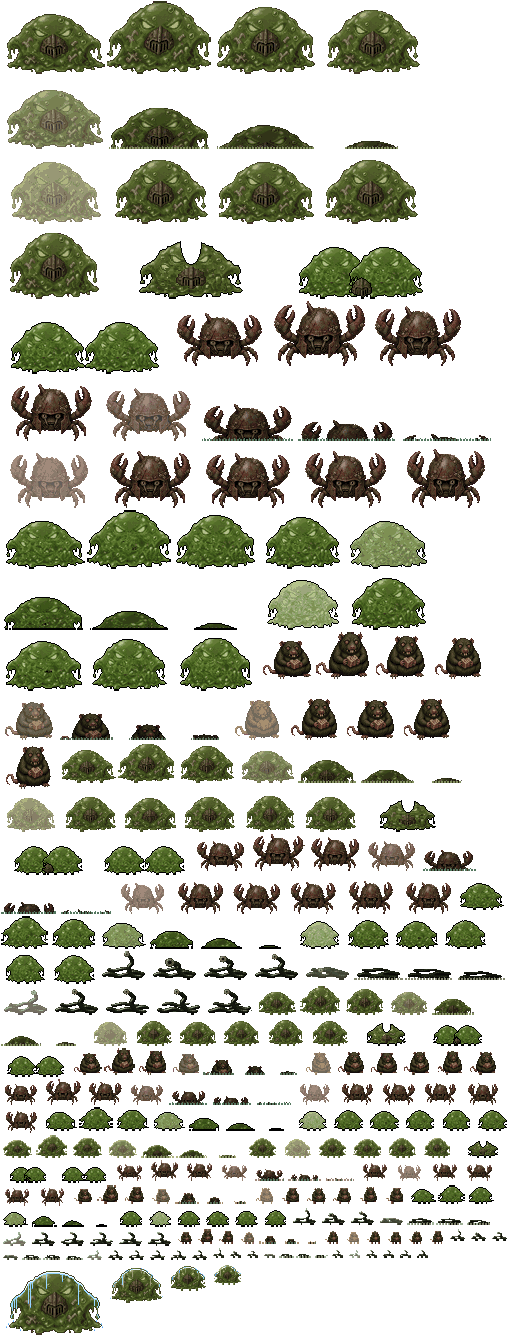
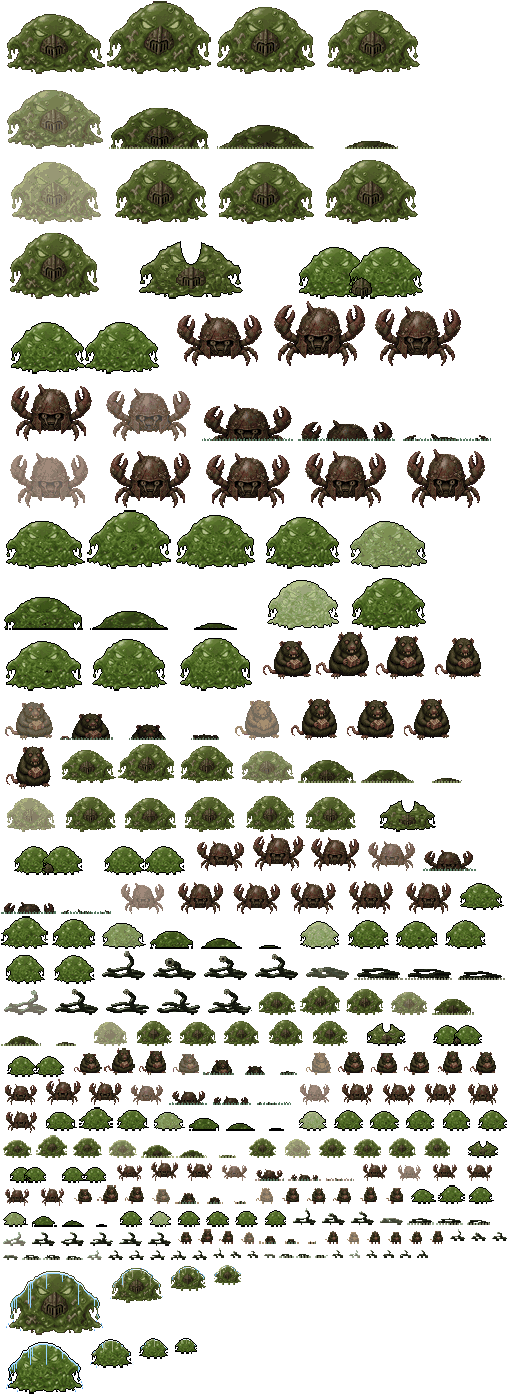
Stamp slime_small frost frames from 5c32e83 without re-packing.
Append slime_small_idle_1_{close,near,mid,far}_frost to a new monsters
sheet row and copy 5c32e83 anchors. Big-slime frost pixels stay put;
every other existing frame is unchanged.

diff --git a/tests/slime-frost.test.ts b/tests/slime-frost.test.ts
@@ -68,7 +68,13 @@ describe('slime frost data and bark flag', () => {
     expect(sprites).not.toMatch(/scale.*_frost|frost.*scaled/);
     expect(sprites).not.toMatch(/slimeFrostTex\.get\('slime:/);
     const atlas = readFileSync(resolve(__dirname, '../public/art/atlas/monsters.json'), 'utf8');
-    expect(atlas).not.toMatch(/slime_small\S*_frost/);
+    for (const lod of ['close', 'near', 'mid', 'far']) {
+      expect(atlas).toContain(`slime_small_idle_1_${lod}_frost.png`);
+      expect(atlas).toContain(`slime_idle_1_${lod}_frost.png`);
+    }
+    const anchors = readFileSync(resolve(__dirname, '../public/art/dungeon/monster_anchor.json'), 'utf8');
+    expect(anchors).toContain('slime_small_idle_1_close_frost.png');
+    expect(anchors).toContain('"imageW": 82');
   });
 
   it('stores slime_frost_resist_seen in save flags so it survives reload', () => {

diff --git a/tests/atlas.test.ts b/tests/atlas.test.ts
@@ -121,7 +121,9 @@ describe('floor 1 sprite atlases', () => {
       'proto3d/fx/dust_burst_1.png',
       'proto3d/fx/dust_burst_6.png',
       'art/dungeon/monsters_v2/slime_idle_1_near_frost.png',
-      'art/dungeon/monsters_v2/slime_idle_1_close_frost.png'
+      'art/dungeon/monsters_v2/slime_idle_1_close_frost.png',
+      'art/dungeon/monsters_v2/slime_small_idle_1_near_frost.png',
+      'art/dungeon/monsters_v2/slime_small_idle_1_close_frost.png'
     ];
     for (const path of skipPacked) {
       expect(lookupFrame(path), path).toBeTruthy();

diff --git a/src/proto3d/sprites.ts b/src/proto3d/sprites.ts
@@ -1166,7 +1166,7 @@ export class SpriteManager {
             const tex = await this.loadTex(slimeFrostFramePath(kind, lod));
             this.slimeFrostTex.set(`${kind}:${lod}`, tex);
           } catch {
-            // slime_small frost art ships later; lookup still uses these names
+            // missing LOD still tints; each kind uses its own <idle>_frost name
           }
         })
       );
